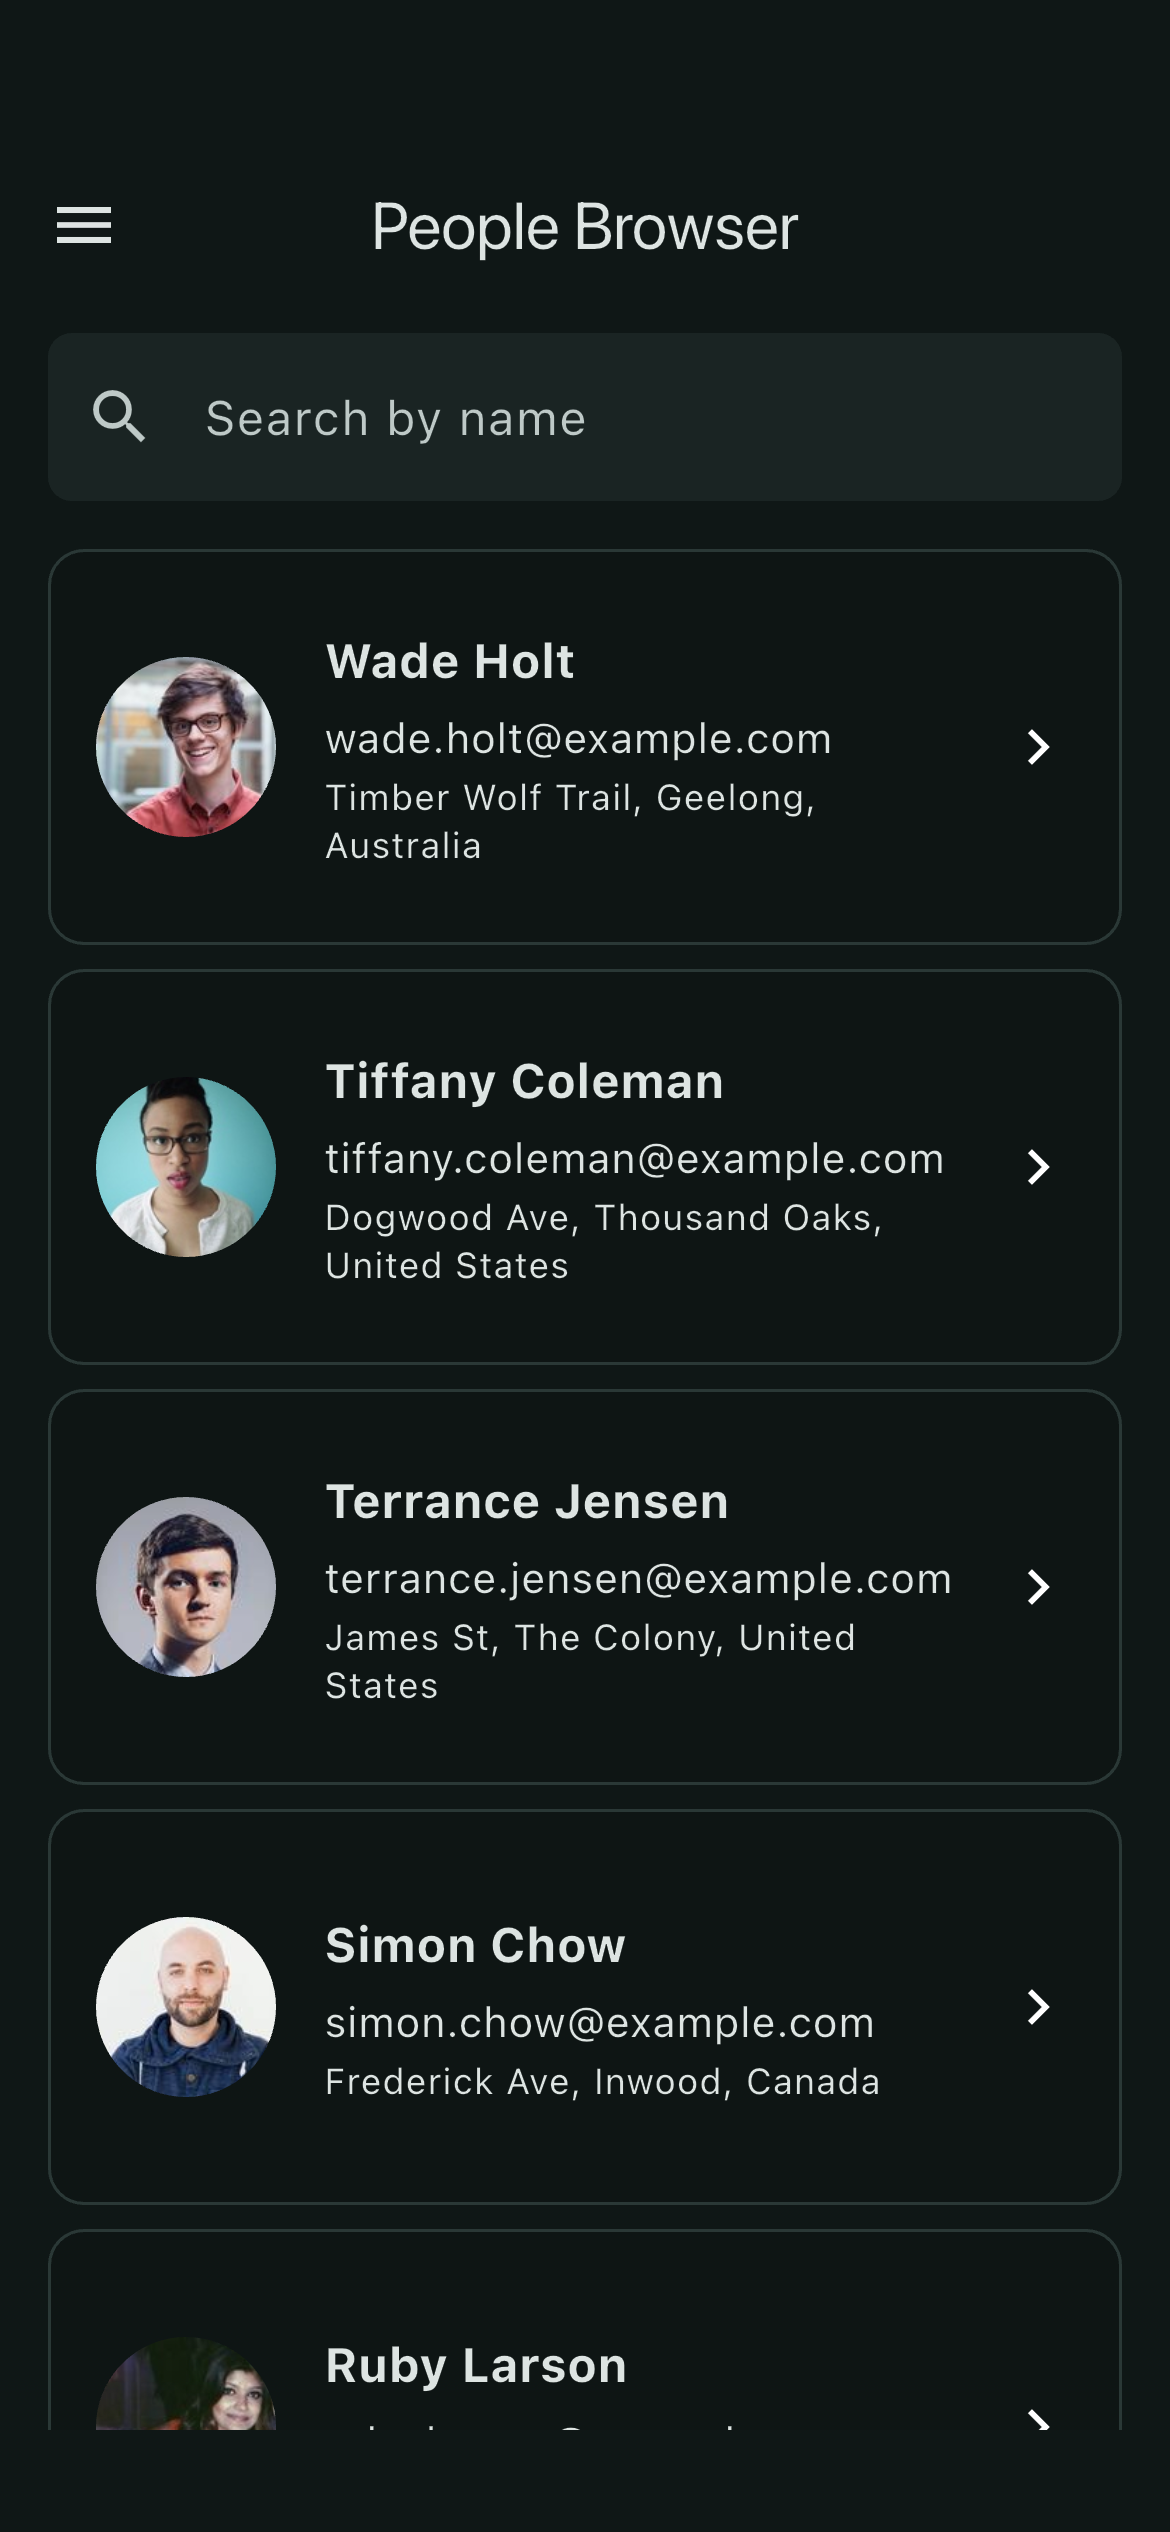
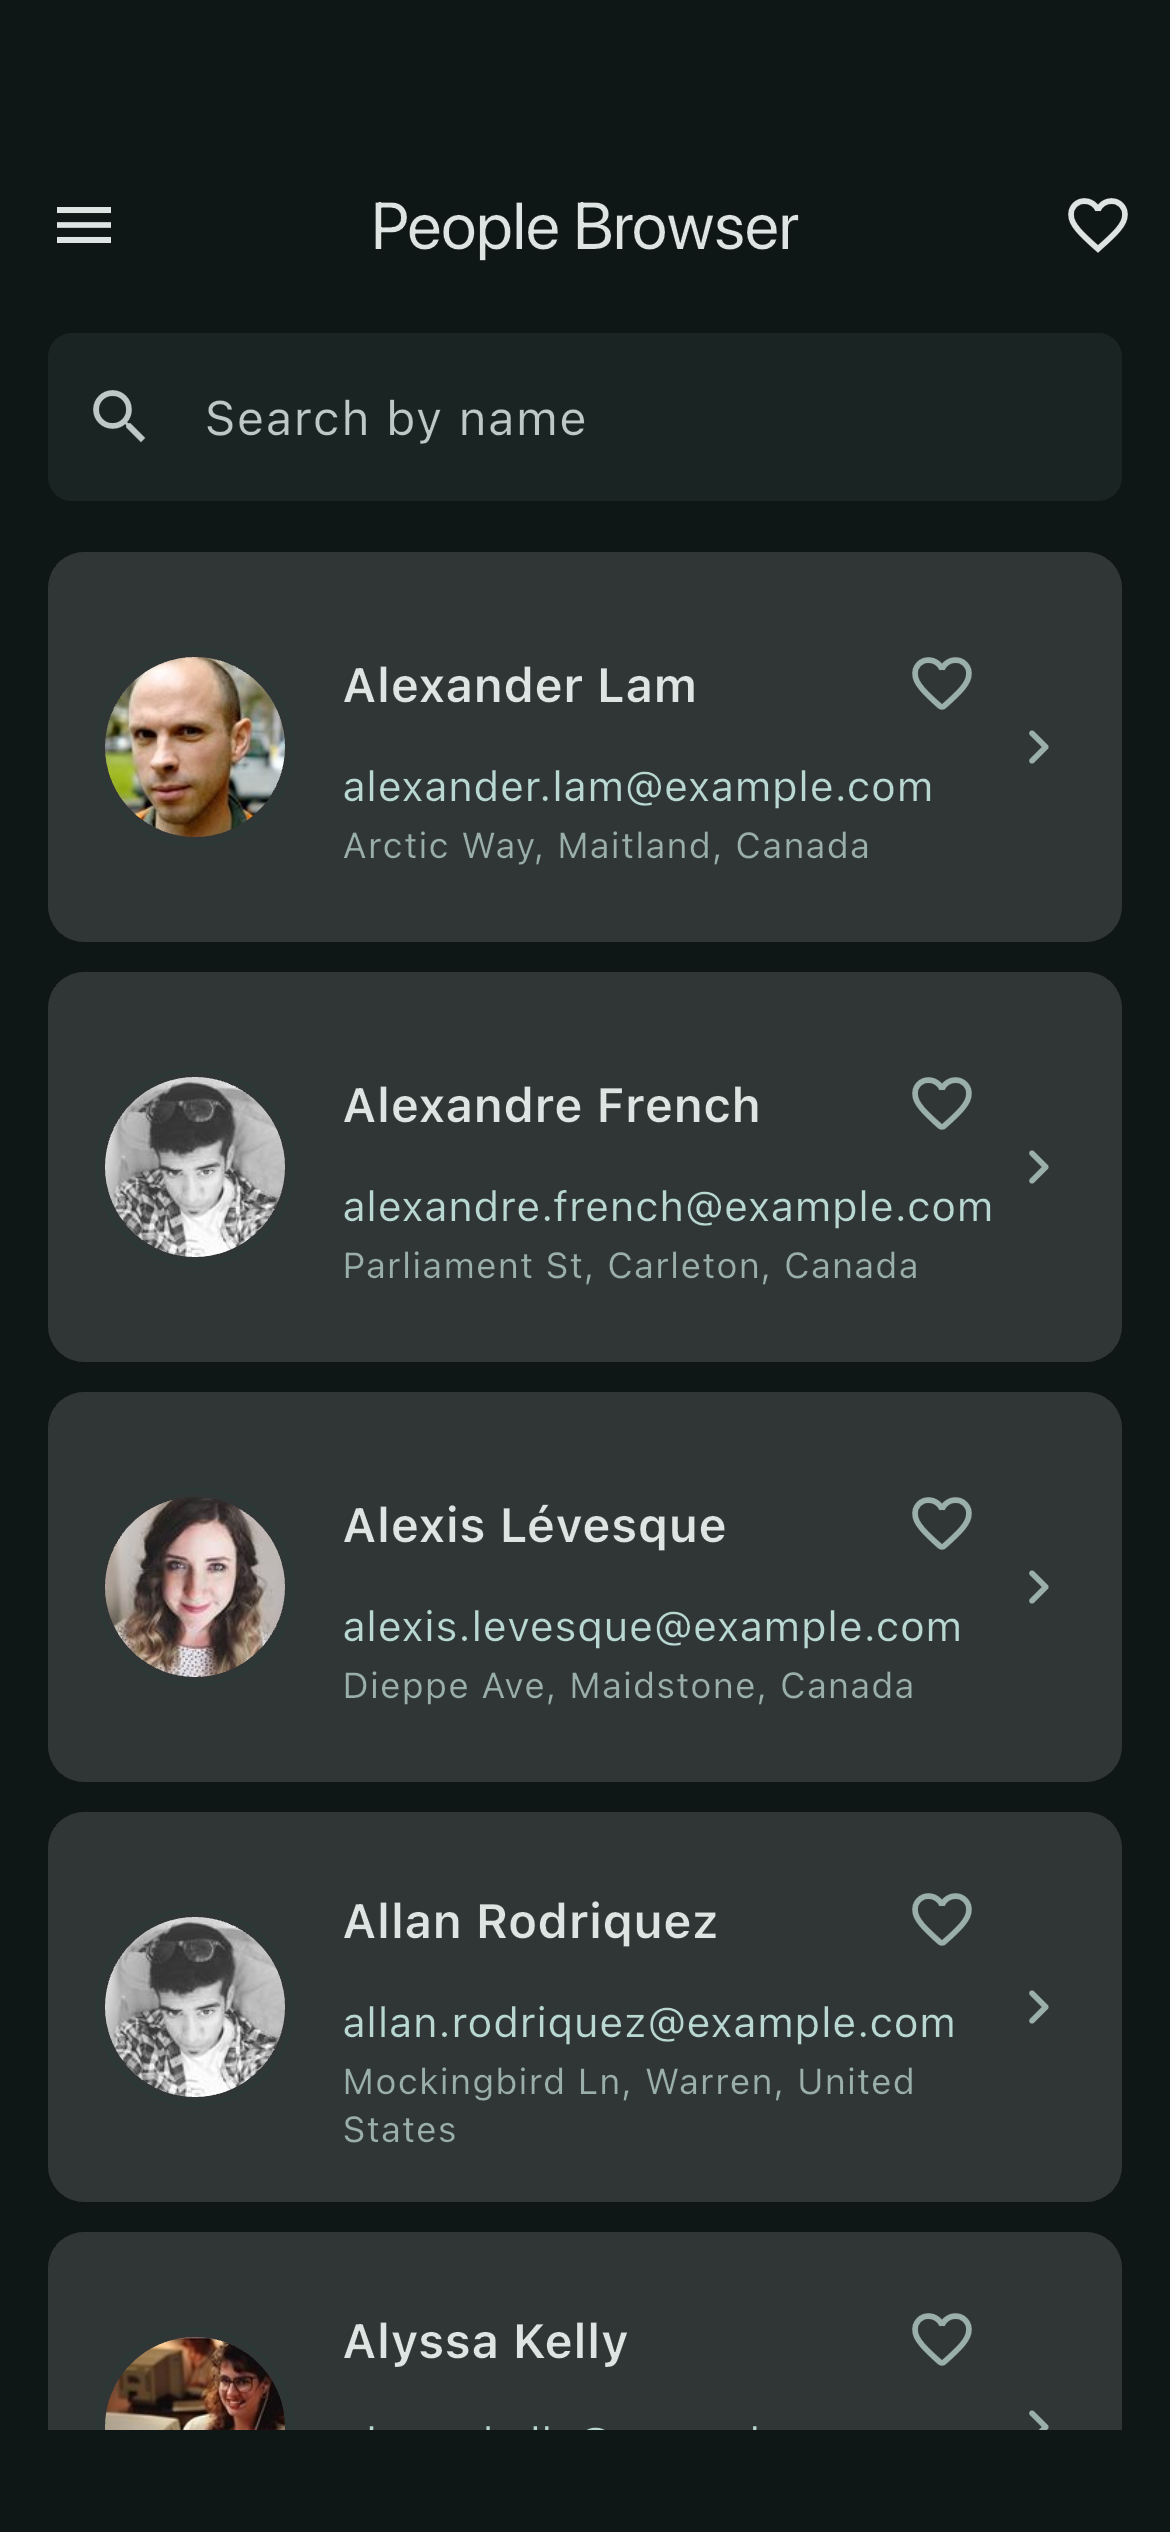
added-images

diff --git a/lib/presentation/widgets/people_menu_drawer.dart b/lib/presentation/widgets/people_menu_drawer.dart
@@ -167,12 +167,14 @@ class _FavoritesSection extends StatelessWidget {
     return BlocSelector<PeopleBloc, PeopleState, bool>(
       selector: (state) => state.showFavoritesOnly,
       builder: (context, showFavoritesOnly) {
-        return SwitchListTile(
-          secondary: const Icon(Icons.favorite_outline),
+        return ListTile(
+          leading: const Icon(Icons.favorite_outline),
           title: const Text(AppStrings.favoritesOnly),
-          value: showFavoritesOnly,
-          onChanged: (_) => context.read<PeopleBloc>().add(
-            const PeopleFavoritesFilterToggled(),
+          trailing: Switch(
+            value: showFavoritesOnly,
+            onChanged: (_) => context.read<PeopleBloc>().add(
+              const PeopleFavoritesFilterToggled(),
+            ),
           ),
         );
       },

diff --git a/README.md b/README.md
@@ -1,23 +1,29 @@
 # People Browser
 
-A Flutter app for browsing deterministic user profiles from the Random User API with search, sorting, favorites, pull-to-refresh, detail actions, and light or dark theming.
+A Flutter app for browsing deterministic user profiles from the Random User API with fast search, sorting, favorites, pull-to-refresh, detail actions, and light or dark theming.
 
-This project is intentionally compact, but it is structured like a real app instead of a throwaway demo. It uses a layered architecture with `flutter_bloc`, clear data flow, and a presentation layer split into smaller page and widget units.
+People Browser is intentionally compact, but it is built with production-minded structure instead of demo-only shortcuts. The app uses `flutter_bloc`, layered architecture, deterministic API data, and a presentation layer split into focused widgets that are easier to test and evolve.
+
+## Highlights
+
+- deterministic dataset powered by Random User seed-based fetching
+- responsive search, sort, favorites, refresh, and detail flows
+- light, dark, and system theme support
+- layered Flutter architecture with focused presentation widgets
+- tested BLoC state transitions for key interactions
 
 ## Preview
 
 <p align="center">
   <img src="docs/images/home-light.png" alt="Home screen light mode" width="240" />
   <img src="docs/images/home-dark.png" alt="Home screen dark mode" width="240" />
-  <img src="docs/images/menu-dark.png" alt="Menu dark mode" width="240" />
+  <img src="docs/images/menu-drawer.png" alt="Menu drawer" width="240" />
 </p>
 
 <p align="center">
-  <img src="docs/images/profile-dark.png" alt="Profile screen dark mode" width="240" />
-</p>
-
-<p align="center">
-  <img src="docs/images/demo.gif" alt="People Browser demo" width="280" />
+  <img src="docs/images/searching.png" alt="Search results view" width="240" />
+  <img src="docs/images/favorite-sreen.png" alt="Favorites filtered view" width="240" />
+  <img src="docs/images/profile-screen.png" alt="Profile screen" width="240" />
 </p>
 
 ## What It Does
@@ -66,7 +72,7 @@ Recent presentation split:
 - `PeopleMenuDrawer` owns theme, sort, refresh, and about actions
 - `PeopleFavoritesToggleButton` owns the app-bar favorites filter affordance
 
-## Key Product Behavior
+## Product Notes
 
 ### Data Fetching
 
@@ -81,9 +87,7 @@ The fixed seed keeps the dataset stable enough for development, screenshots, and
 
 - search runs locally on the fetched dataset
 - search input is debounced for smoother interaction
-- sorting currently supports:
-  - name ascending
-  - name descending
+- sorting supports `name ascending` and `name descending`
 - favorites can be toggled without leaving the list
 - favorites-only mode can be toggled from the app bar or drawer
 
@@ -197,24 +201,15 @@ Without a fixed seed, the API would return a different result set frequently, wh
 
 The fetched dataset is intentionally small, so client-side filtering keeps the implementation simple and responsive.
 
-## Known Limitations
+## What’s Next
 
-- no offline caching or local persistence yet
-- no pagination or infinite scroll
-- favorites are reset on app restart
-- theme preference is not persisted across app restarts
-- error classification is still broad
-- search and sort only apply to the current fetched dataset
+Planned improvements:
 
-## Roadmap
-
-High-value next improvements:
-
-- persist theme preference locally
-- persist favorites locally
-- cache the last successful people list
-- improve timeout, offline, and server error messaging
-- add widget and integration tests
+- add local persistence for favorites and theme mode
+- cache the last successful people payload for faster reopen
+- sharpen loading, offline, and API error feedback
+- extend test coverage with widget and integration flows
+- explore pagination or staged loading for larger datasets
 
 ## API
 
